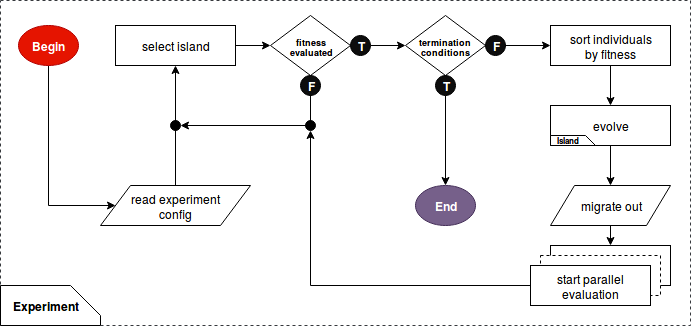
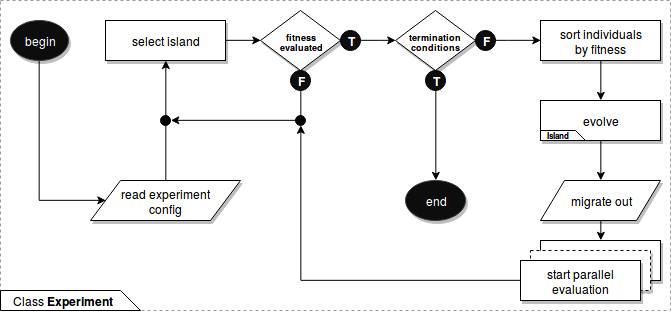
report

diff --git a/README.md b/README.md
@@ -153,24 +153,29 @@ other element from the primitive set. Since the longer the chromosome the chance
 code increases, it is recommended to keep this value low.
 
 A chance for `k` genes to mutate in a chromosome of length `n` for the mutation rate `m` can be calculated from the
-following formulas:   
+combination of binomial coefficient (**E1**) and cumulative probability (**E2**).
 
-![experiment_class](./docs/k_permutations_of_n.png)    
+![binomial_coefficient](./docs/k_permutations_of_n.png)    
 
-![experiment_class](./docs/gene_mutation_probability.png)  
+**E1** *Formula for finding k-permutations of n.* 
+
+![cumulative_probability](./docs/gene_mutation_probability.png)   
+
+**E2** *Probability of mutation.*
 
 Using the **one_max** problem described in **Sec. 5.1.1 Genetic Algorithms** as an example, a chance for at least
-one gene mutating in a whole chromosome for the default value of 5% mutation rate equals:  
+one gene mutating in a whole chromosome for the default value of 5% mutation has been shown on **E3**.  
 
-![experiment_class](./docs/gene_mutation_example.png)
+![experiment_class](./docs/gene_mutation_example.png)  
 
+**E3** *Probability of mutation for One Max problem of chromosome length 11.* 
 
 
 
 ## 5 Evaluation functions
 #### 5.1 Available evaluators
 ###### 5.1.1 Genetic Algorithms
-- **One max** - The score is proportional to the number of ones in a binary string of a fixed length. 
+- **One max** - The score is proportional to the number of ones in a binary string of fixed length. 
 
 ###### 5.1.2 Genetic programming
 - **Times plus one max** - The score is a result of multiplying (times) and adding (plus) ones. For this problem the
@@ -269,11 +274,34 @@ Genetic programming represented as a string of primitives from `terminal_set` an
 
 
 ## 6 Implementation
+The following section aims in providing an insight into the architecture of GPEC. 
+
 #### 6.1 Parallel processing
-![experiment_class](./docs/experiment_class.png)
+Evolutionary Computation can benefit from the emergent properties of parallel searching. 
+W. Punch in his paper [3], points out to a property called *superlinear speedup*. 
+It emerges in many applications of GA, 
+resulting in total amount of work (in this case evaluations) needed for finding a good solution,
+decreasing for each extra parallel evolutionary subprocess at the disposal of the searching device. 
+
+In order to create a tool which utilizes superlinear speedup and enables using GA for complex and time-consuming problems,
+an architecture support parallel computation has been designed. The overview of the system can be seen on **F1**.   
+
+.  
+.  
+![experiment_class](./docs/experiment_class.png)  
+.  
+.
+
+**F1** *The flowchart of parallel evaluation handled in the experiment class.*
 
 ###### 6.1.1 The island model
+.  
+.  
 ![island_class](./docs/island_class.png)  
+.  
+.  
+**F2** *The flowchart of replacement, migration, selection and reproduction of a population has been implemented in GPEC.*
+
 Is an example of a distributed population model. 
 - **Coarse grain**
  
@@ -288,33 +316,62 @@ Is an example of a distributed population model.
 
 
 ## 7 In development
+This section covers all the techniques that has not been implemented yet, but are planned to be before moving to the
+next stage of the project, namely the master thesis experiments.  
+
 #### 7.1 Genetic Programming
-###### 7.1.1 Pruning
-###### 7.1.2 Headless chicken mutation
-Subtree mutation implemented as crossover between an individual, namely a program, and a newly generated random program. 
-When applied only one modification of such kind is allowed per tree.
+###### 7.1.1 Depth restricted and unrestricted tree growth
+These methods will allow to use evaluators of additional data type structures, namely trees with limited depth and
+completely unrestricted trees (free size and depth). **Sec. 7.1.2 Pruning** and **Sec. 7.1.3 Headless chicken mutation**
+will be first steps to implement these methods.
+
+
+###### 7.1.2 Pruning
+Sometimes tree has to be pruned. This method will be used for reducing the depth of the trees that exceeded the `max_depth`
+in depth-restricted genetic programming experiments, e.g. in a result of the subtree crossover. 
+
+###### 7.1.3 Headless chicken mutation
+It is a subtree mutation method implemented as crossover between an individual, namely a program, and a newly generated random program. 
+When applied only one modification of such kind is allowed per tree. 
+This method will be working inclusively with `point-mutation` method which has been already implemented.  
 
 #### 7.2 Similarity-based selection
-Part of multi-objective evaluation
+Part of multi-objective evaluation yet instead of performed in evaluators will be computed by GPEC main body. 
+A matrix of `n x n` dimension, where `n = total number of individuals` will contain information about similarity between
+individuals. In order to reduce the convergence of the population to the genotype of the leading individuals, 
+similarity between islands will be taken into consideration in the migration process. In order words, the diversity of the
+population will be promoted when choosing which individual to take in from other islands. 
 
 #### 7.3 Fine grain
-A support for Fine grain in the island model.
+Fine grain stands as the most parallel friendly implementation of the island model, where each individual in a
+population evolves asynchronously. This approach will tested with a task of finding a solution to a complex problem, 
+potentially the one described in **Sec. 7.4.1 Surface Max** or **Sec. 7.4.2 Beam Strength Max**, 
+and the results compared with the Coarse- and Micro-grain methodologies.
 
 #### 7.4 Evaluators 
 ###### 7.4.1 Surface Max
-Procedural modeling in OpenSCAD. Constructive solid geometry. To maximize the surface of a fixed-volume polyhedron.
+Evolved programmes will be procedurally modeling a 3D structure in OpenSCAD. 
+A volume and a surface of a generated polyhedron will be measured and used to calculate a fitness. 
+The volume will have an inversely proportional, and the surface a proportional effect on the score.
 
 ###### 7.4.2 Beam Strength Max
-Procedural modeling in OpenSCAD then simulation based testing in COMSOL Multiphysics.
+In part similarly to evaluator in **7.4.1 Surface Max**, generated programmes will be performing a procedural modeling in OpenSCAD.
+Created models will have a structure of a beam. The results will be used in a COMSOL Multiphysics simulation,
+where the models will be tested against different forces. 
+The idea is to grow novel structures for a beam by prioritizing reduction in a volume and optimizing for a strength.
+Finally, the most interesting approaches will be 3D printed and their strength evaluated in a real-life stress experiment.  
  
 #### 7.5 Stead-state replacement policy
+Extending the replacement policy by the option of stead-state evolution.
 
 #### 7.6 Genotype repair 
-If chosen, individuals with broken dna (e.g. invalid format for the given problem) will not be discarded. 
-In order to preserve potentially valuable information of the code, such individuals will populate an repair island
-and stay there until their dna has been fixed. Repaired individuals will then migrate to other islands.
-When repair has been enabled, the invalid solutions from all the islands in the experiment will populate the repair island
-and stay there until a valid code has been created.
+In order to preserve potentially valuable information of the code, 
+individuals with invalid genotypes (e.g. invalid format for the given problem) will not be discarded. 
+An option of initiating a special island will be given to users, called Repair Island. 
+The individuals with invalid genotypes will migrate to Repair Island and stay there until their code has been fixed.
+Repaired individuals will then migrate to other islands. 
+When repair has been enabled, the invalid solutions from all the islands in the experiment will populate the same
+Repair Island.
 
 
 
@@ -329,49 +386,19 @@ Todo: deriving a math formula for finding maximum fitness for a tree of any size
 
 
 
-
-
-## 8 Techniques
-#### 8.1 Evolutionary computation
-###### 8.1.1 Genetric Programming
-- At the most abstract level GP is a systematic, domain-independent method for getting computers 
-to solve problems automatically starting from a high-level state-ment of what needs to be done.[2]
-- In genetic programming we evolve a population of computer programs. 
-That is, generation by generation, GP stochastically transforms populations of programs into new, hopefully better, populations of programs.
-GP, like nature, is a random process, and it can never guarantee results.
-GP’s essential randomness, however, can lead it to escape traps which deterministic methods may be captured by. 
-Like nature, GP has been very successful at evolving novel and unexpected ways of solving problems.[2]
-
-###### 8.1.2 Self-organization  
-adaptation process usually involves a large number of evaluations of the interactions between the system and the environment.
-Using self-organization does not require any human supervision. The main advantage of relying on self-organization is
-the fact that designer does not need to find the optimal solution. His efforts are redirected towards an implementation
-of the environment, in this case, the evaluator. 
-Emergence of complex abilities from a process of autonomous interaction between the agent and the environment. 
-
-###### 8.1.3 Schemata
-- Evolutionary Robotics book
-- Almost all components of genetic algorithms are stochastic
-- implicit parallelism, schemata 
-    - schemata is major genetic operator because it generates innovation
-    - mutation is a local search operator 
-
-###### 8.1.4 Speedup
-- Linear speedup
-- Super-linear speedup
-
-###### 8.1.4 Pre-mature convergence
-
-
- 
-
 ## 9 Glossary
 **[EA]** - Evolutionary Algorithm  
 **[EC]** - Evolutionary Computation   
 **[GA]** - Genetic Algorithm  
 **[GP]** - Genetic Programming  
+**[GPEC]** - General Purpose Evolutionary Computation  
+**[RI]** - Repair Island  
+**[TP1max]** Times Plus One Max
 
 
 ## 10 References
-[1] *Evolutionary Robotics*, by D. Floreano  
-[2] *A Field Guide to Genetic Programming*, by R. Poli, W. B. Langdon, N. F. McPhee
+1. *Evolutionary Robotics*,  by D. Floreano  
+2. *A Field Guide to Genetic Programming*,  by R. Poli, W. B. Langdon, N. F. McPhee
+https://dces.essex.ac.uk/staff/rpoli/gp-field-guide/A_Field_Guide_to_Genetic_Programming.pdf
+3. *The problem-dependent nature of parallel processing in genetic programming*, W. F. Punch
+http://citeseerx.ist.psu.edu/viewdoc/download?doi=10.1.1.408.8428&rep=rep1&type=pdf
